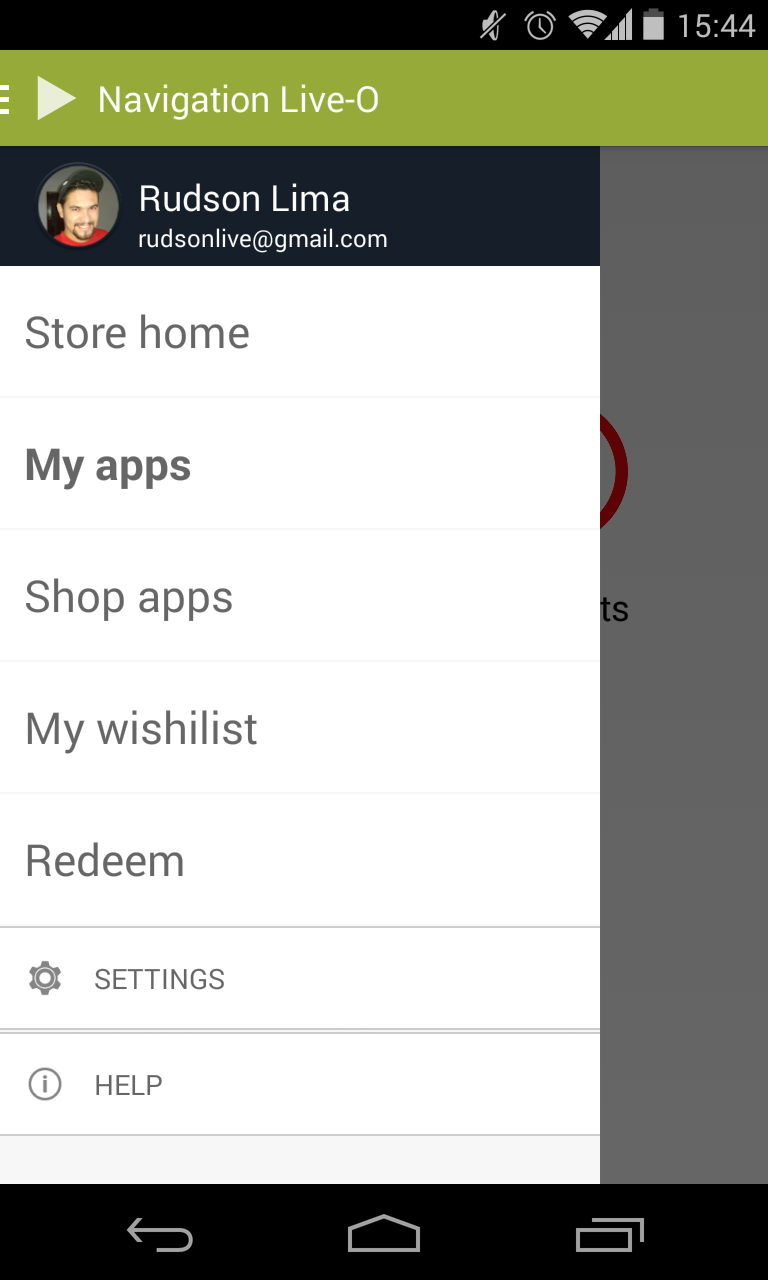
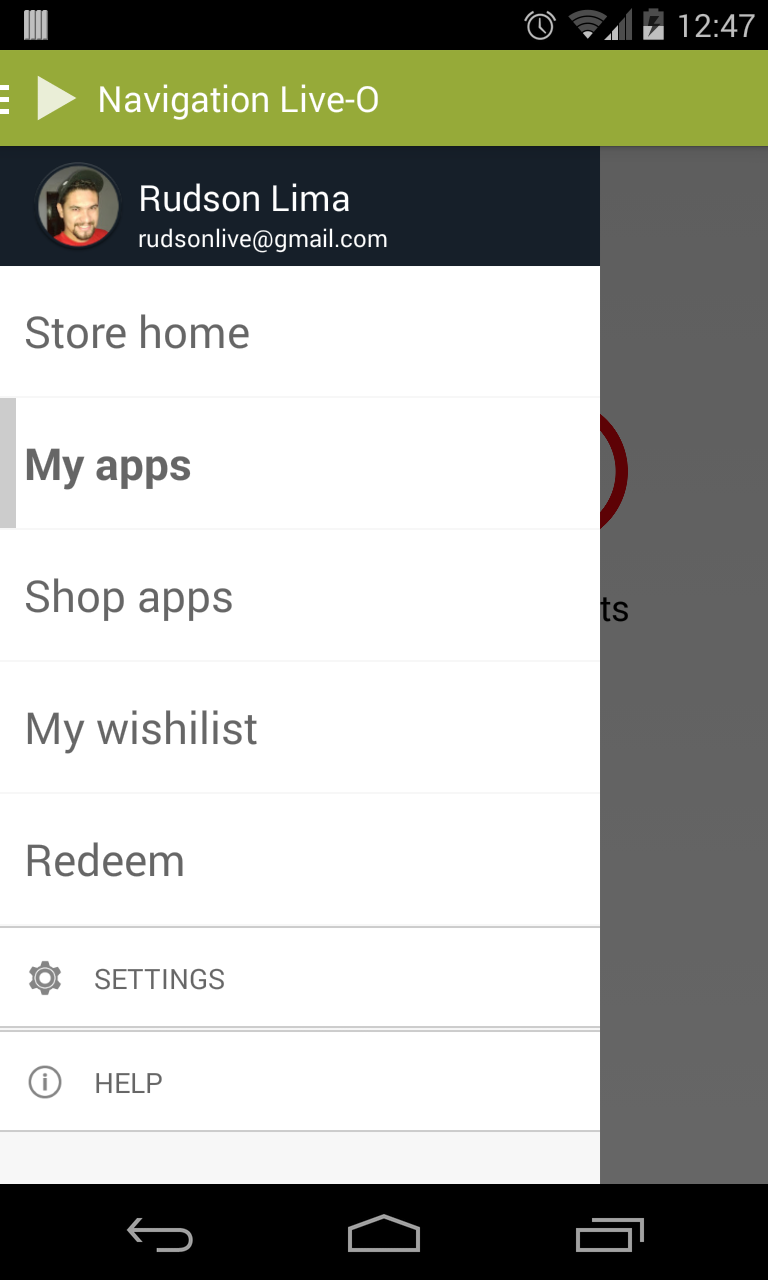
Projeto Navigation Drawer ViewPager

diff --git a/NavigationLiveoViewPager/src/br/liveo/navigationliveoviewpager/NavigationMain.java b/NavigationLiveoViewPager/src/br/liveo/navigationliveoviewpager/NavigationMain.java
@@ -188,11 +188,11 @@ public class NavigationMain extends ActionBarActivity{
 		}
 	};	
 	
-	private void setFragmentList(int posicao){
+	private void setFragmentList(int position){
 		
 		FragmentManager fragmentManager = getSupportFragmentManager();							
 		
-		switch (posicao) {
+		switch (position) {
 		case 0:			
 			fragmentManager.beginTransaction().replace(R.id.content_frame, fragmentViewPager = new FragmentViewPager()).commit();
 			break;					
@@ -208,8 +208,10 @@ public class NavigationMain extends ActionBarActivity{
 			break;	
 		}			
 	
-		navigationAdapter.resetarCheck();			
-		navigationAdapter.setChecked(posicao, true);		
+		if (position < 5){
+			navigationAdapter.resetarCheck();			
+			navigationAdapter.setChecked(position, true);
+		}
 	}
 
     private void hideMenus(Menu menu, int posicao) {
@@ -248,10 +250,10 @@ public class NavigationMain extends ActionBarActivity{
 		}    	
     }
 
-    private void getInstanceFragments(Bundle savedInstanceState, int posicao) {
+    private void getInstanceFragments(Bundle savedInstanceState, int position) {
     	
 		FragmentManager manager = getSupportFragmentManager();		
-    	switch (posicao) {
+    	switch (position) {
 		case 0:
 			fragmentViewPager = (FragmentViewPager) manager.getFragment(savedInstanceState, Constant.FRAGMENT_VIEWPAGER);						
 			break;			    	
@@ -265,8 +267,10 @@ public class NavigationMain extends ActionBarActivity{
 			//implement other fragments here			
 		}    	
     				    	    	
-		navigationAdapter.resetarCheck();		
-		navigationAdapter.setChecked(posicao, true);				
+		if (position < 5){
+			navigationAdapter.resetarCheck();			
+			navigationAdapter.setChecked(position, true);
+		}    	
     }
 
 	public void setTitleFragments(int position){	

diff --git a/NavigationLiveoViewPager/src/br/liveo/adapter/NavigationAdapter.java b/NavigationLiveoViewPager/src/br/liveo/adapter/NavigationAdapter.java
@@ -149,16 +149,17 @@ public class NavigationAdapter extends ArrayAdapter<NavigationItemAdapter> {
 			}
 		}
 	    
-		if (!item.isHeader) {
+		if (!item.isHeader && item.icon == 0) {
 			if (checkedItems.contains(Integer.valueOf(position))) {
 				holder.title.setTypeface(null,Typeface.BOLD);
+				holder.viewNavigation.setVisibility(View.VISIBLE);				
 			} else {				
-				holder.title.setTypeface(null,Typeface.NORMAL);				
-			}
-			
-			view.setBackgroundResource(R.drawable.seletor_item_navigation);			
+				holder.title.setTypeface(null,Typeface.NORMAL);		
+				holder.viewNavigation.setVisibility(View.GONE);				
+			}			
 		}
 		
+		view.setBackgroundResource(R.drawable.seletor_item_navigation);		
 	    return view;		
 	}
 
